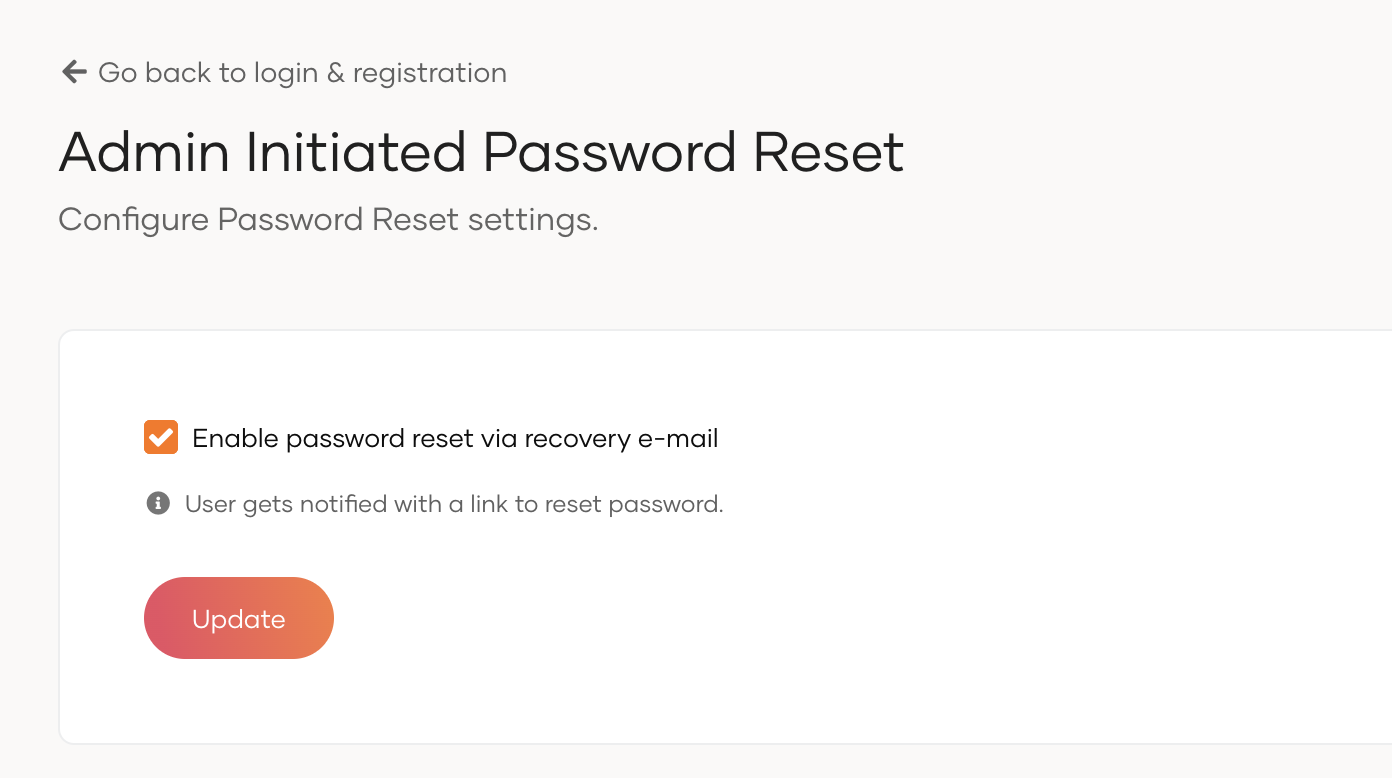
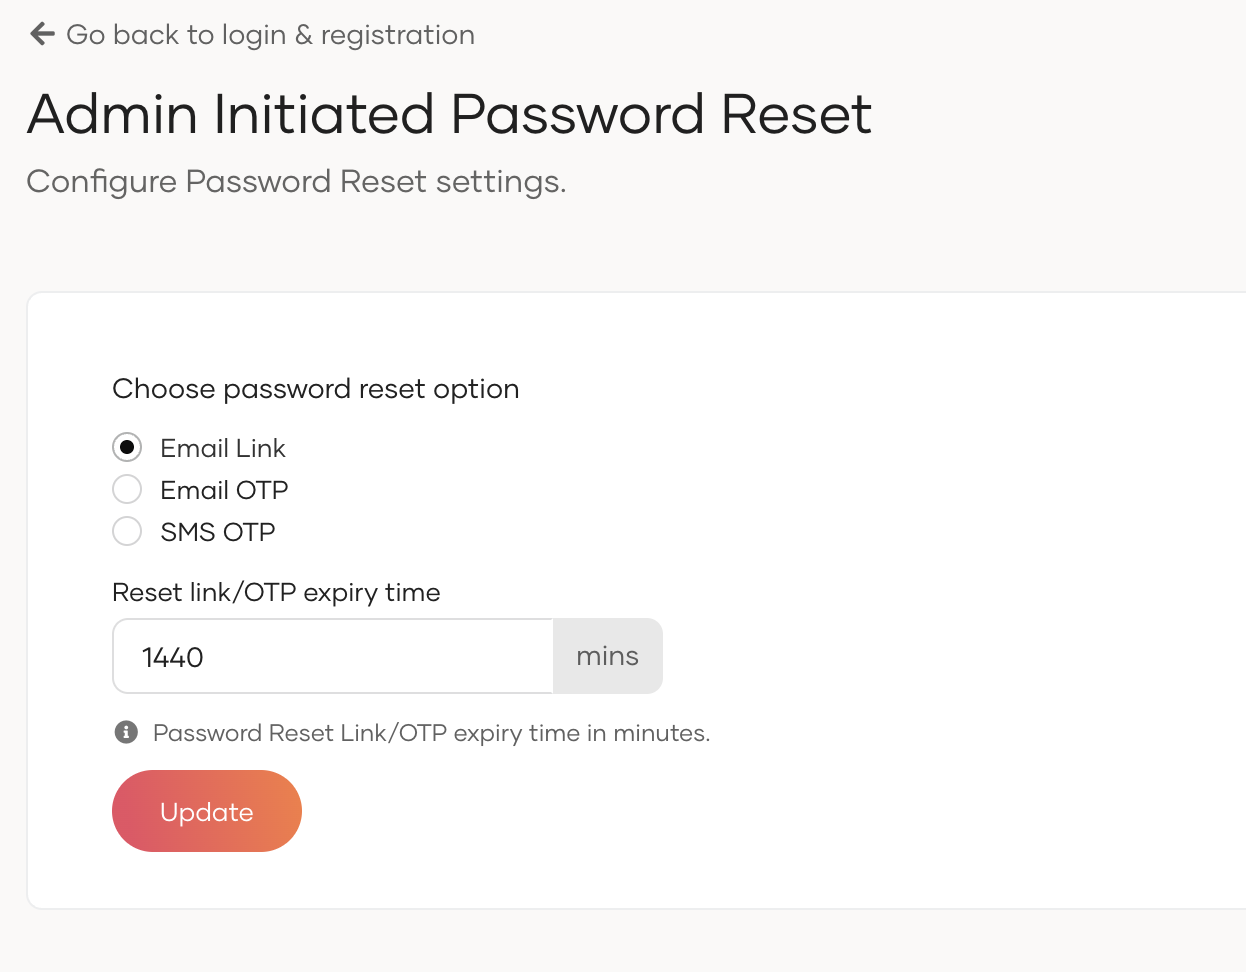
Update the docs.

diff --git a/en/includes/guides/account-configurations/account-recovery/admin-initiated-password-reset.md b/en/includes/guides/account-configurations/account-recovery/admin-initiated-password-reset.md
@@ -1,15 +1,29 @@
 # Admin initiated password reset
 
+{% if product_name == "Asgardeo" or (product_name == "WSO2 Identity Server" and is_version > "7.1.0" ) %}
+Administrators can initiate password recovery for users. Once an admin initiates a password reset, the user's current password becomes invalid and they must complete the password reset process to regain access to their account.
+{% else %}
 Administrators can initiate password recovery for users. Once initiated, an email will be sent to the user with a password recovery link which can be used to reset the password.
+{% endif %}
 
-To do so,
+To configure admin-initiated password reset:
 
 1. On the {{product_name}} Console, go to **Login & Registration**.
 
 2. Under **Account Recovery**, click on **Admin Initiated Password Reset**.
 
+{% if product_name == "Asgardeo" or (product_name == "WSO2 Identity Server" and is_version > "7.1.0" ) %}
+3. Select one of the following methods:
+    * **Email Link**: Users receive an email containing a password recovery link. Clicking the link initiates the password reset flow.
+    * **Email OTP**: Users receive a one-time password (OTP) via email. They can use this OTP to log in once, which will then initiate the password reset flow.
+    * **SMS OTP**: Users receive a one-time password (OTP) via SMS. They can use this OTP to log in once, which will then initiate the password reset flow.
+{% else %}
 3. Check the option to **Enable password reset via recovery email**.
+{% endif %}
 
 4. Click **Update** to save the changes.
 
 ![Admin Initiated Password Reset Configuration]({{base_path}}/assets/img/guides/account-configurations/admin-initiated-password-reset.png){: width="600" style="display: block; margin: 0;"}
+
+!!! info
+    Once an administrator initiates a password reset, the user's previous password will be invalidated immediately. The user must complete the password reset process using the provided method (link or OTP) to regain access to their account.
